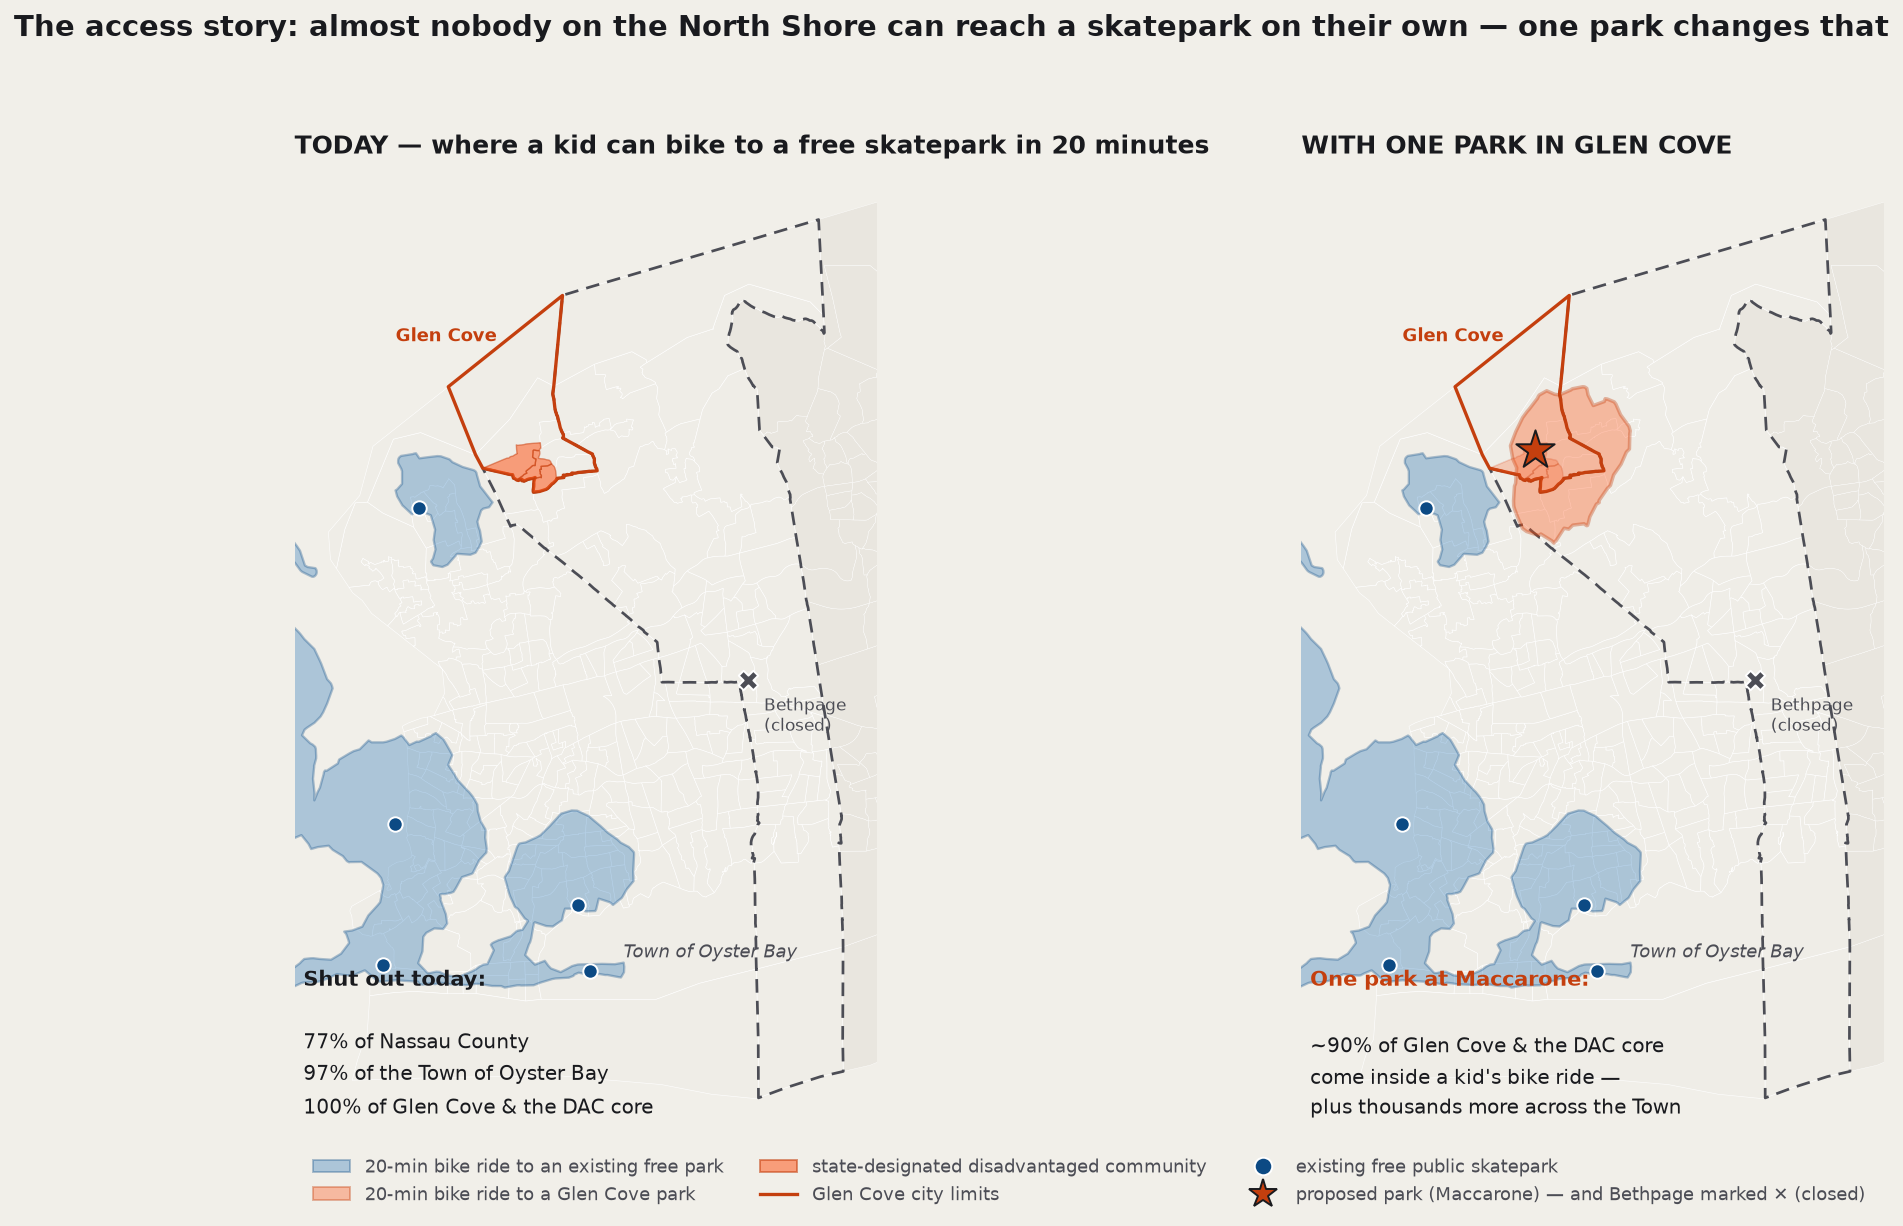
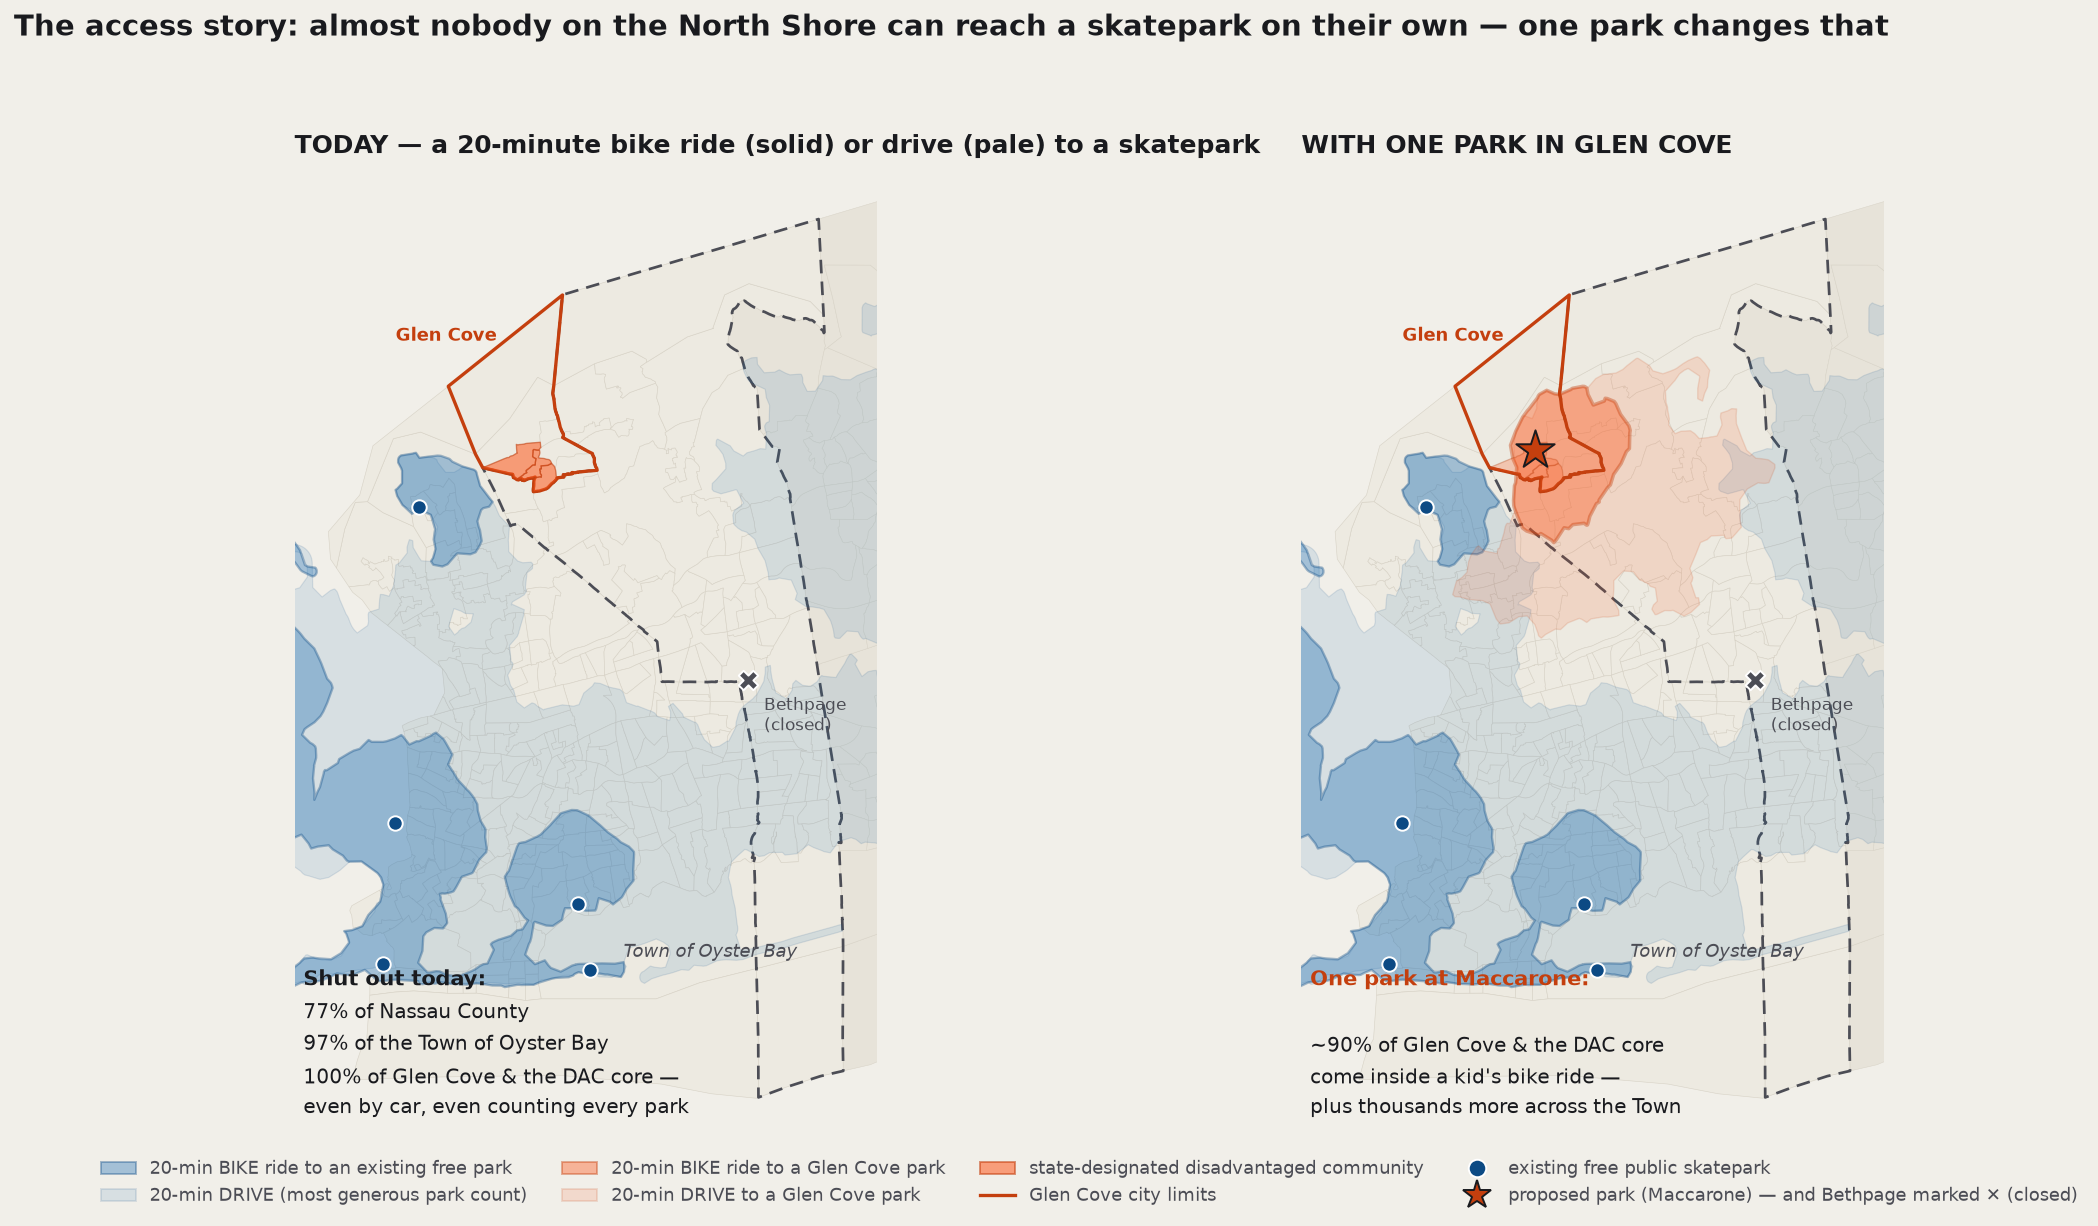
Microsite: drop hero tiles; map water + drive layers; Part Two grounded in the rules
Three review items:
- Hero stat tiles removed entirely — the narrative opens clean.
- Access-story map regenerated: pale-blue water so land/water reads
  instantly (land warmed for contrast), and 20-minute DRIVE catchments
  added as lighter shades beneath the solid BIKE catchments in both
  panels — captioned honestly (drive layer uses the most generous park
  count) with the punchline that the North Shore is out of reach even by
  car. Panel A stats note "even by car, even counting every park."
- Part Two rebuilt from 4 to 6 hypothesis blocks, each pinned to the
  playbook table by rule chip ("Runs rule NN — ...") and given
  illustrative specificity: Maccarone's ~19 city-owned acres + the
  council resolution as the literal written-approval gate (rule 08);
  a survey/design-sessions block incl. the redraw-it lesson (rules
  02+04); the $1.0-1.5M band + phase-one logic (rule 07); the funding
  sequence by name from design gift to DASNY (rule 05); the endowed-
  maintenance answer via a community foundation (rule 06); free-forever
  with the Charleston-vs-Long Beach contrast (rule 01). Rule 03 (the
  champion who stays) lands in the close: "the only rule nobody can run
  but us."
The framing copy ("Not a plan we're asserting...") kept verbatim.

Claude-Session: https://claude.ai/code/session_01R9CAJDZFUS7VyoncJkuQwx

diff --git a/skate-park/analysis/regenerate_maps.py b/skate-park/analysis/regenerate_maps.py
@@ -80,7 +80,7 @@ def access_story():
     12 km of any of them, so the erase is clean. On-brand palette."""
     import geopandas as gpd
     from shapely.geometry import Point
-    PAPER="#F1EFE9"; INK="#191A1E"; SOFT="#4C4D55"; POOL="#1C6FB5"; POOLD="#0C4A84"
+    PAPER="#F1EFE9"; WATER="#DFEBF4"; INK="#191A1E"; SOFT="#4C4D55"; POOL="#1C6FB5"; POOLD="#0C4A84"
     SPARK="#FF5A1F"; SPARKD="#C43F0E"
     for f,u in [("tl_2023_36_tract.shp","TRACT/tl_2023_36_tract.zip"),
                 ("tl_2023_36_cousub.shp","COUSUB/tl_2023_36_cousub.zip"),
@@ -95,12 +95,14 @@ def access_story():
     gc=gpd.read_file("tl_2023_36_place.shp").to_crs(32618); gc=gc[gc.NAME=="Glen Cove"]
     dac=na[na.GEOID.isin(["36059517201","36059517202","36059517101"])]
     bike=gpd.read_file("data/bike_today.gpkg").to_crs(32618)
+    car=gpd.read_file("data/covA.gpkg").to_crs(32618)
     excl=[(-73.3649,40.8625),(-73.3113,40.8822),(-73.3978,40.6579),(-72.5356,40.8873)]
     ex=gpd.GeoSeries([Point(x,y) for x,y in excl],crs=4326).to_crs(32618).buffer(9000)
     from shapely.ops import unary_union
     bike_geom=unary_union(bike.geometry.values).difference(unary_union(ex.values))
     bike=gpd.GeoDataFrame(geometry=[bike_geom],crs=32618)
     gcb=gpd.read_file("data/gc_bike.gpkg").to_crs(32618)
+    gcc=gpd.read_file("data/gc_iso.gpkg").to_crs(32618)
     parks=[("Long Beach",-73.6013,40.5902),("Baldwin",-73.6092,40.6256),
            ("Manorhaven",-73.7161,40.8388),("Laurelton (Queens)",-73.7365,40.6703),
            ("Far Rockaway (Queens)",-73.7465,40.5952)]
@@ -112,13 +114,15 @@ def access_story():
     fig,axes=plt.subplots(1,2,figsize=(16,8.8),dpi=140)
     fig.patch.set_facecolor(PAPER)
     for i,ax in enumerate(axes):
-        ax.set_facecolor(PAPER)
-        su.plot(ax=ax,color="#E9E6DF",edgecolor="white",linewidth=.2)
-        na.plot(ax=ax,color="#EFEDE7",edgecolor="white",linewidth=.3)
+        ax.set_facecolor(WATER)
+        su.plot(ax=ax,color="#E7E3D9",edgecolor="#d8d3c7",linewidth=.25)
+        na.plot(ax=ax,color="#EDEAE1",edgecolor="#d8d3c7",linewidth=.3)
         toob.plot(ax=ax,color="none",edgecolor=SOFT,linewidth=1.4,linestyle=(0,(5,3)))
-        bike.plot(ax=ax,color=POOL,alpha=.32,edgecolor=POOLD,linewidth=1.2)
+        car.plot(ax=ax,color=POOL,alpha=.12,edgecolor=POOLD,linewidth=.6)
+        bike.plot(ax=ax,color=POOL,alpha=.36,edgecolor=POOLD,linewidth=1.2)
         if i==1:
-            gcb.plot(ax=ax,color=SPARK,alpha=.36,edgecolor=SPARKD,linewidth=1.8)
+            gcc.plot(ax=ax,color=SPARK,alpha=.14,edgecolor=SPARKD,linewidth=.7)
+            gcb.plot(ax=ax,color=SPARK,alpha=.40,edgecolor=SPARKD,linewidth=1.8)
             mac.plot(ax=ax,color=SPARKD,marker="*",markersize=430,edgecolor=INK,zorder=9)
         gc.plot(ax=ax,color="none",edgecolor=SPARKD,linewidth=1.7)
         dac.plot(ax=ax,color=SPARK,alpha=(.55 if i==0 else .25),edgecolor=SPARKD,linewidth=.7)
@@ -133,13 +137,13 @@ def access_story():
                     textcoords="offset points",fontsize=9,color=SPARKD,fontweight="bold")
         ax.set_xlim(b[0]-pad,b[2]+pad); ax.set_ylim(b[1]-pad,b[3]+pad); ax.axis("off")
     A,B=axes
-    A.set_title("TODAY — where a kid can bike to a free skatepark in 20 minutes",
+    A.set_title("TODAY — a 20-minute bike ride (solid) or drive (pale) to a skatepark",
                 loc="left",fontsize=13,fontweight="bold",color=INK)
     B.set_title("WITH ONE PARK IN GLEN COVE",loc="left",fontsize=13,fontweight="bold",color=INK)
     A.text(.015,.155,"Shut out today:",transform=A.transAxes,fontsize=11,
            color=INK,fontweight="bold")
     A.text(.015,.02,"77% of Nassau County\n97% of the Town of Oyster Bay\n"
-           "100% of Glen Cove & the DAC core",transform=A.transAxes,fontsize=10.5,
+           "100% of Glen Cove & the DAC core —\neven by car, even counting every park",transform=A.transAxes,fontsize=10.5,
            color=INK,linespacing=1.55)
     B.text(.015,.155,"One park at Maccarone:",transform=B.transAxes,fontsize=11,
            color=SPARKD,fontweight="bold")
@@ -148,13 +152,15 @@ def access_story():
            color=INK,linespacing=1.55)
     import matplotlib.patches as mpatches
     import matplotlib.lines as mlines
-    handles=[mpatches.Patch(facecolor=POOL,alpha=.32,edgecolor=POOLD,label="20-min bike ride to an existing free park"),
-             mpatches.Patch(facecolor=SPARK,alpha=.36,edgecolor=SPARKD,label="20-min bike ride to a Glen Cove park"),
+    handles=[mpatches.Patch(facecolor=POOL,alpha=.36,edgecolor=POOLD,label="20-min BIKE ride to an existing free park"),
+             mpatches.Patch(facecolor=POOL,alpha=.12,edgecolor=POOLD,label="20-min DRIVE (most generous park count)"),
+             mpatches.Patch(facecolor=SPARK,alpha=.40,edgecolor=SPARKD,label="20-min BIKE ride to a Glen Cove park"),
+             mpatches.Patch(facecolor=SPARK,alpha=.14,edgecolor=SPARKD,label="20-min DRIVE to a Glen Cove park"),
              mpatches.Patch(facecolor=SPARK,alpha=.55,edgecolor=SPARKD,label="state-designated disadvantaged community"),
              mlines.Line2D([],[],color=SPARKD,linewidth=1.7,label="Glen Cove city limits"),
              mlines.Line2D([],[],marker="o",color="none",markerfacecolor=POOLD,markeredgecolor="white",markersize=9,label="existing free public skatepark"),
              mlines.Line2D([],[],marker="*",color="none",markerfacecolor=SPARKD,markeredgecolor=INK,markersize=15,label="proposed park (Maccarone) — and Bethpage marked ✕ (closed)")]
-    fig.legend(handles=handles,loc="lower center",ncol=3,frameon=False,fontsize=9.5,
+    fig.legend(handles=handles,loc="lower center",ncol=4,frameon=False,fontsize=9,
                labelcolor=SOFT,bbox_to_anchor=(.5,.0))
     fig.suptitle("The access story: almost nobody on the North Shore can reach a skatepark on their own — one park changes that",
                  x=.02,ha="left",fontsize=15,fontweight="bold",color=INK)